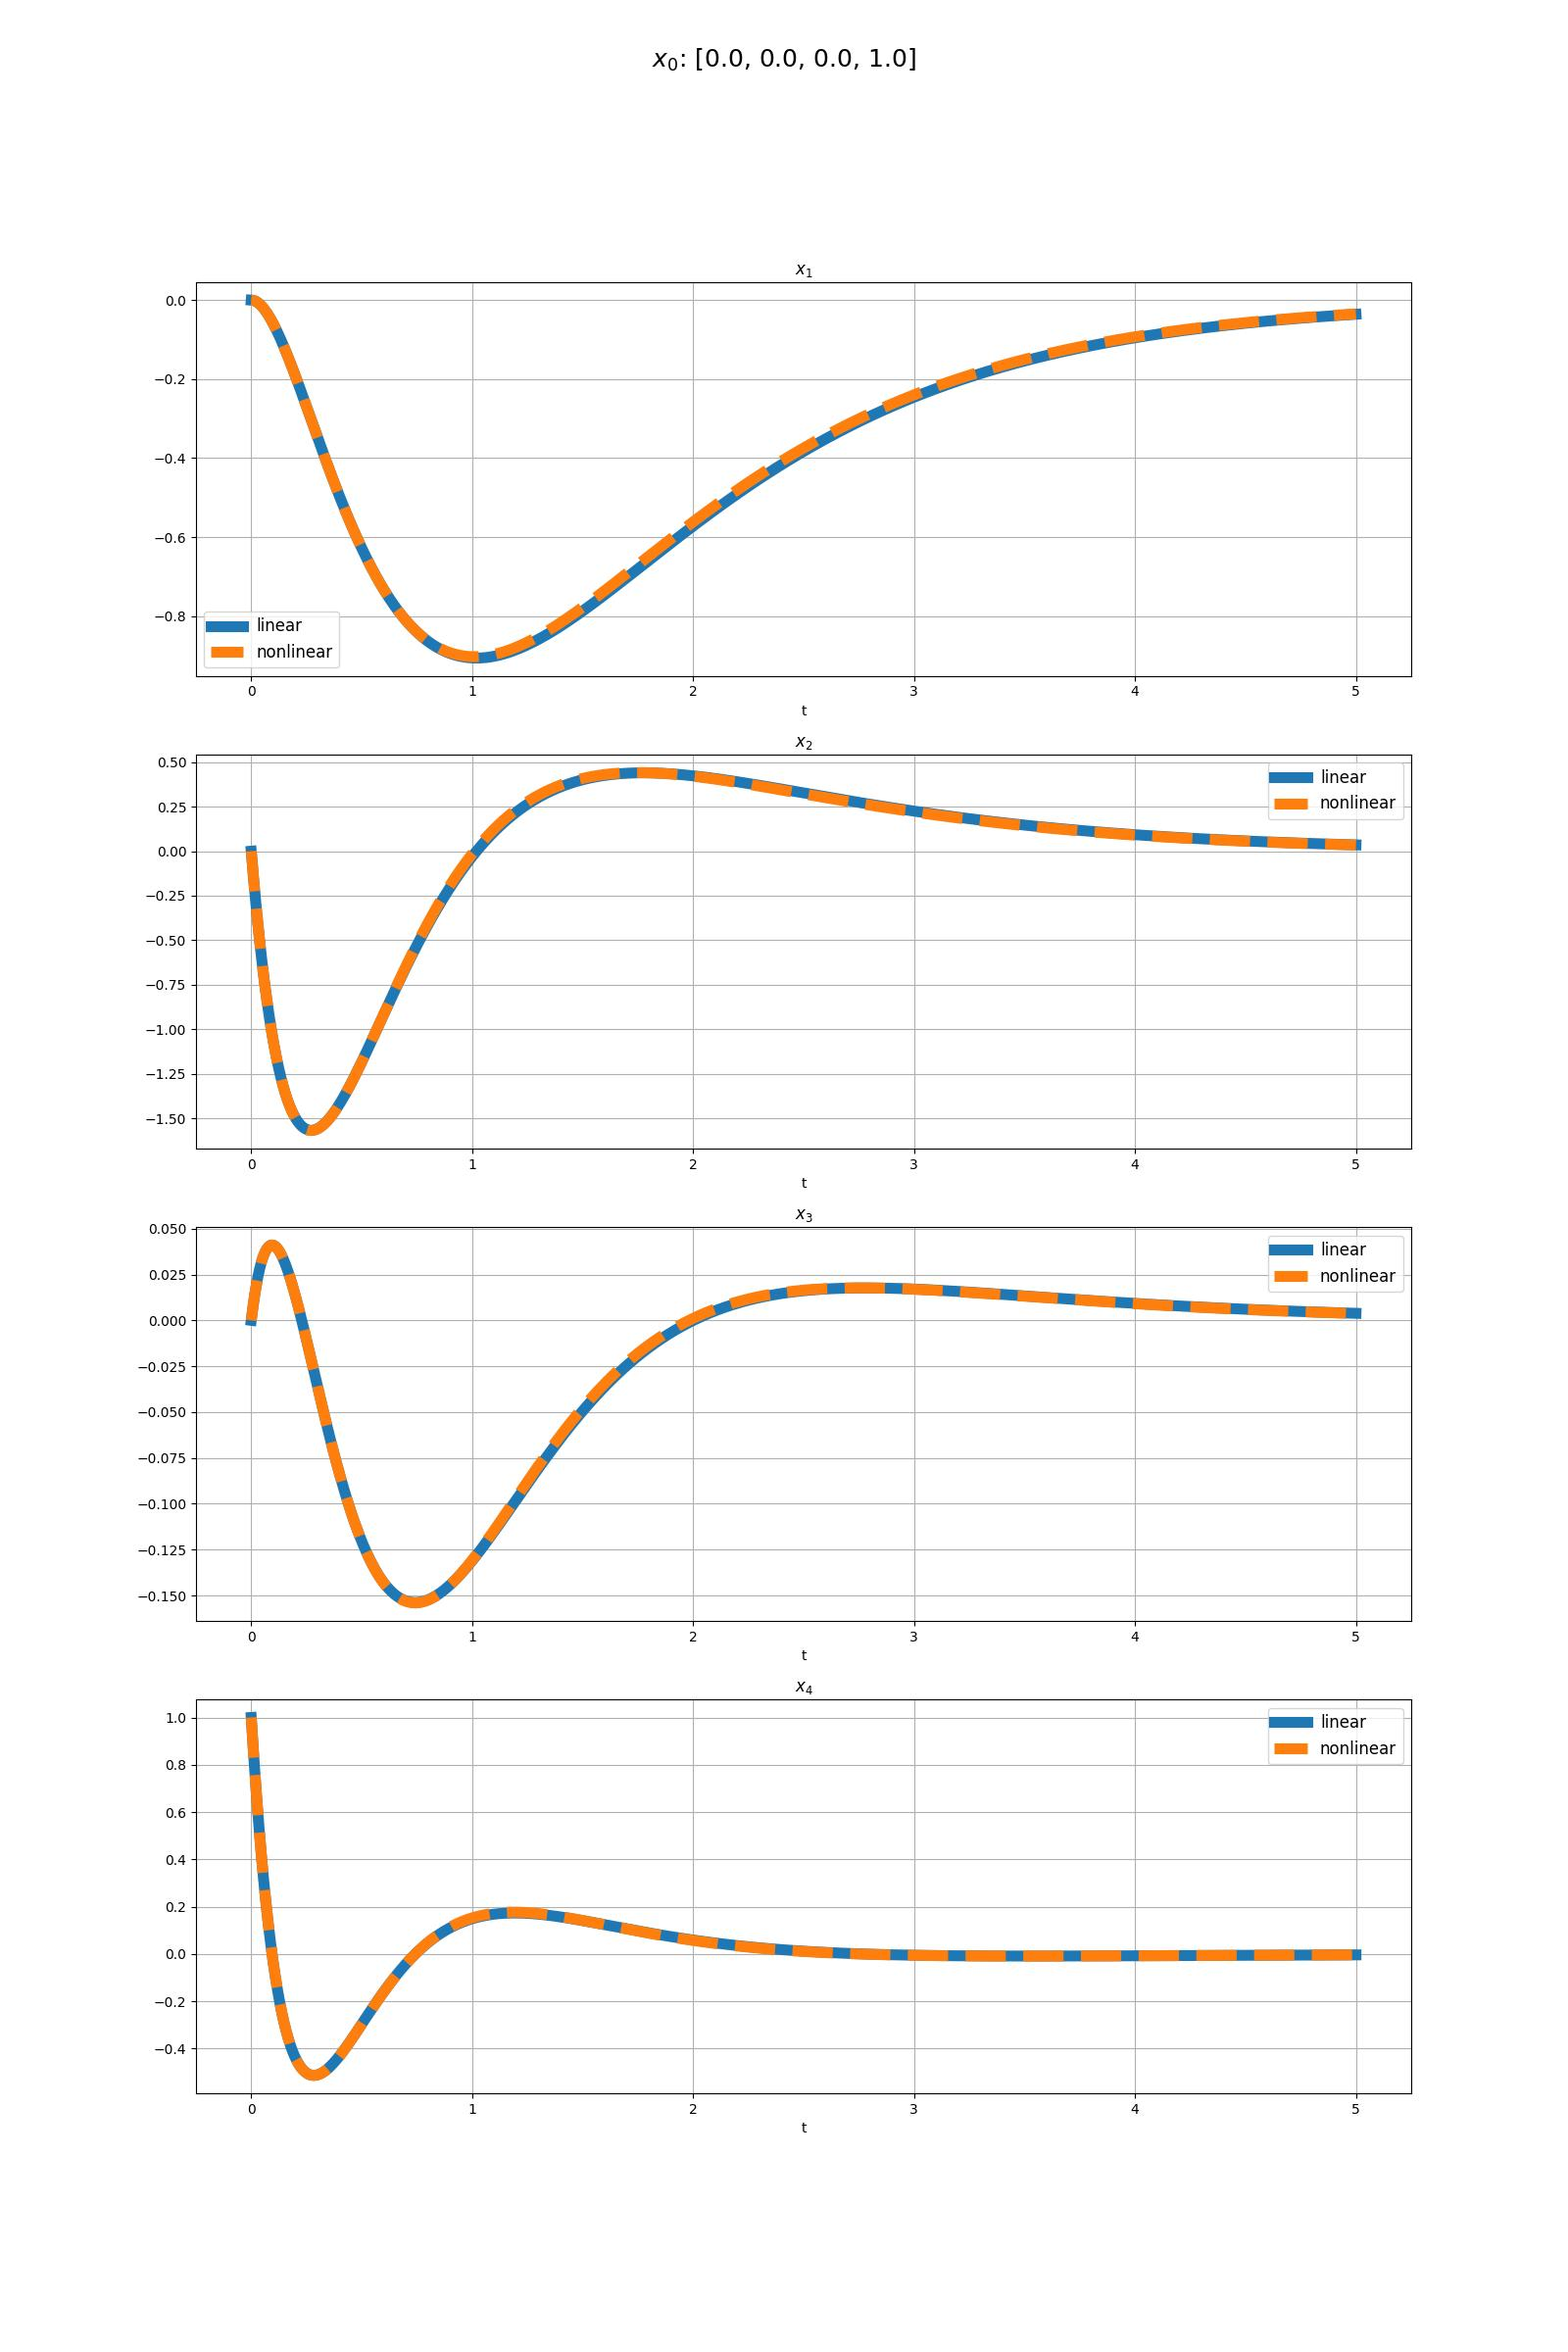
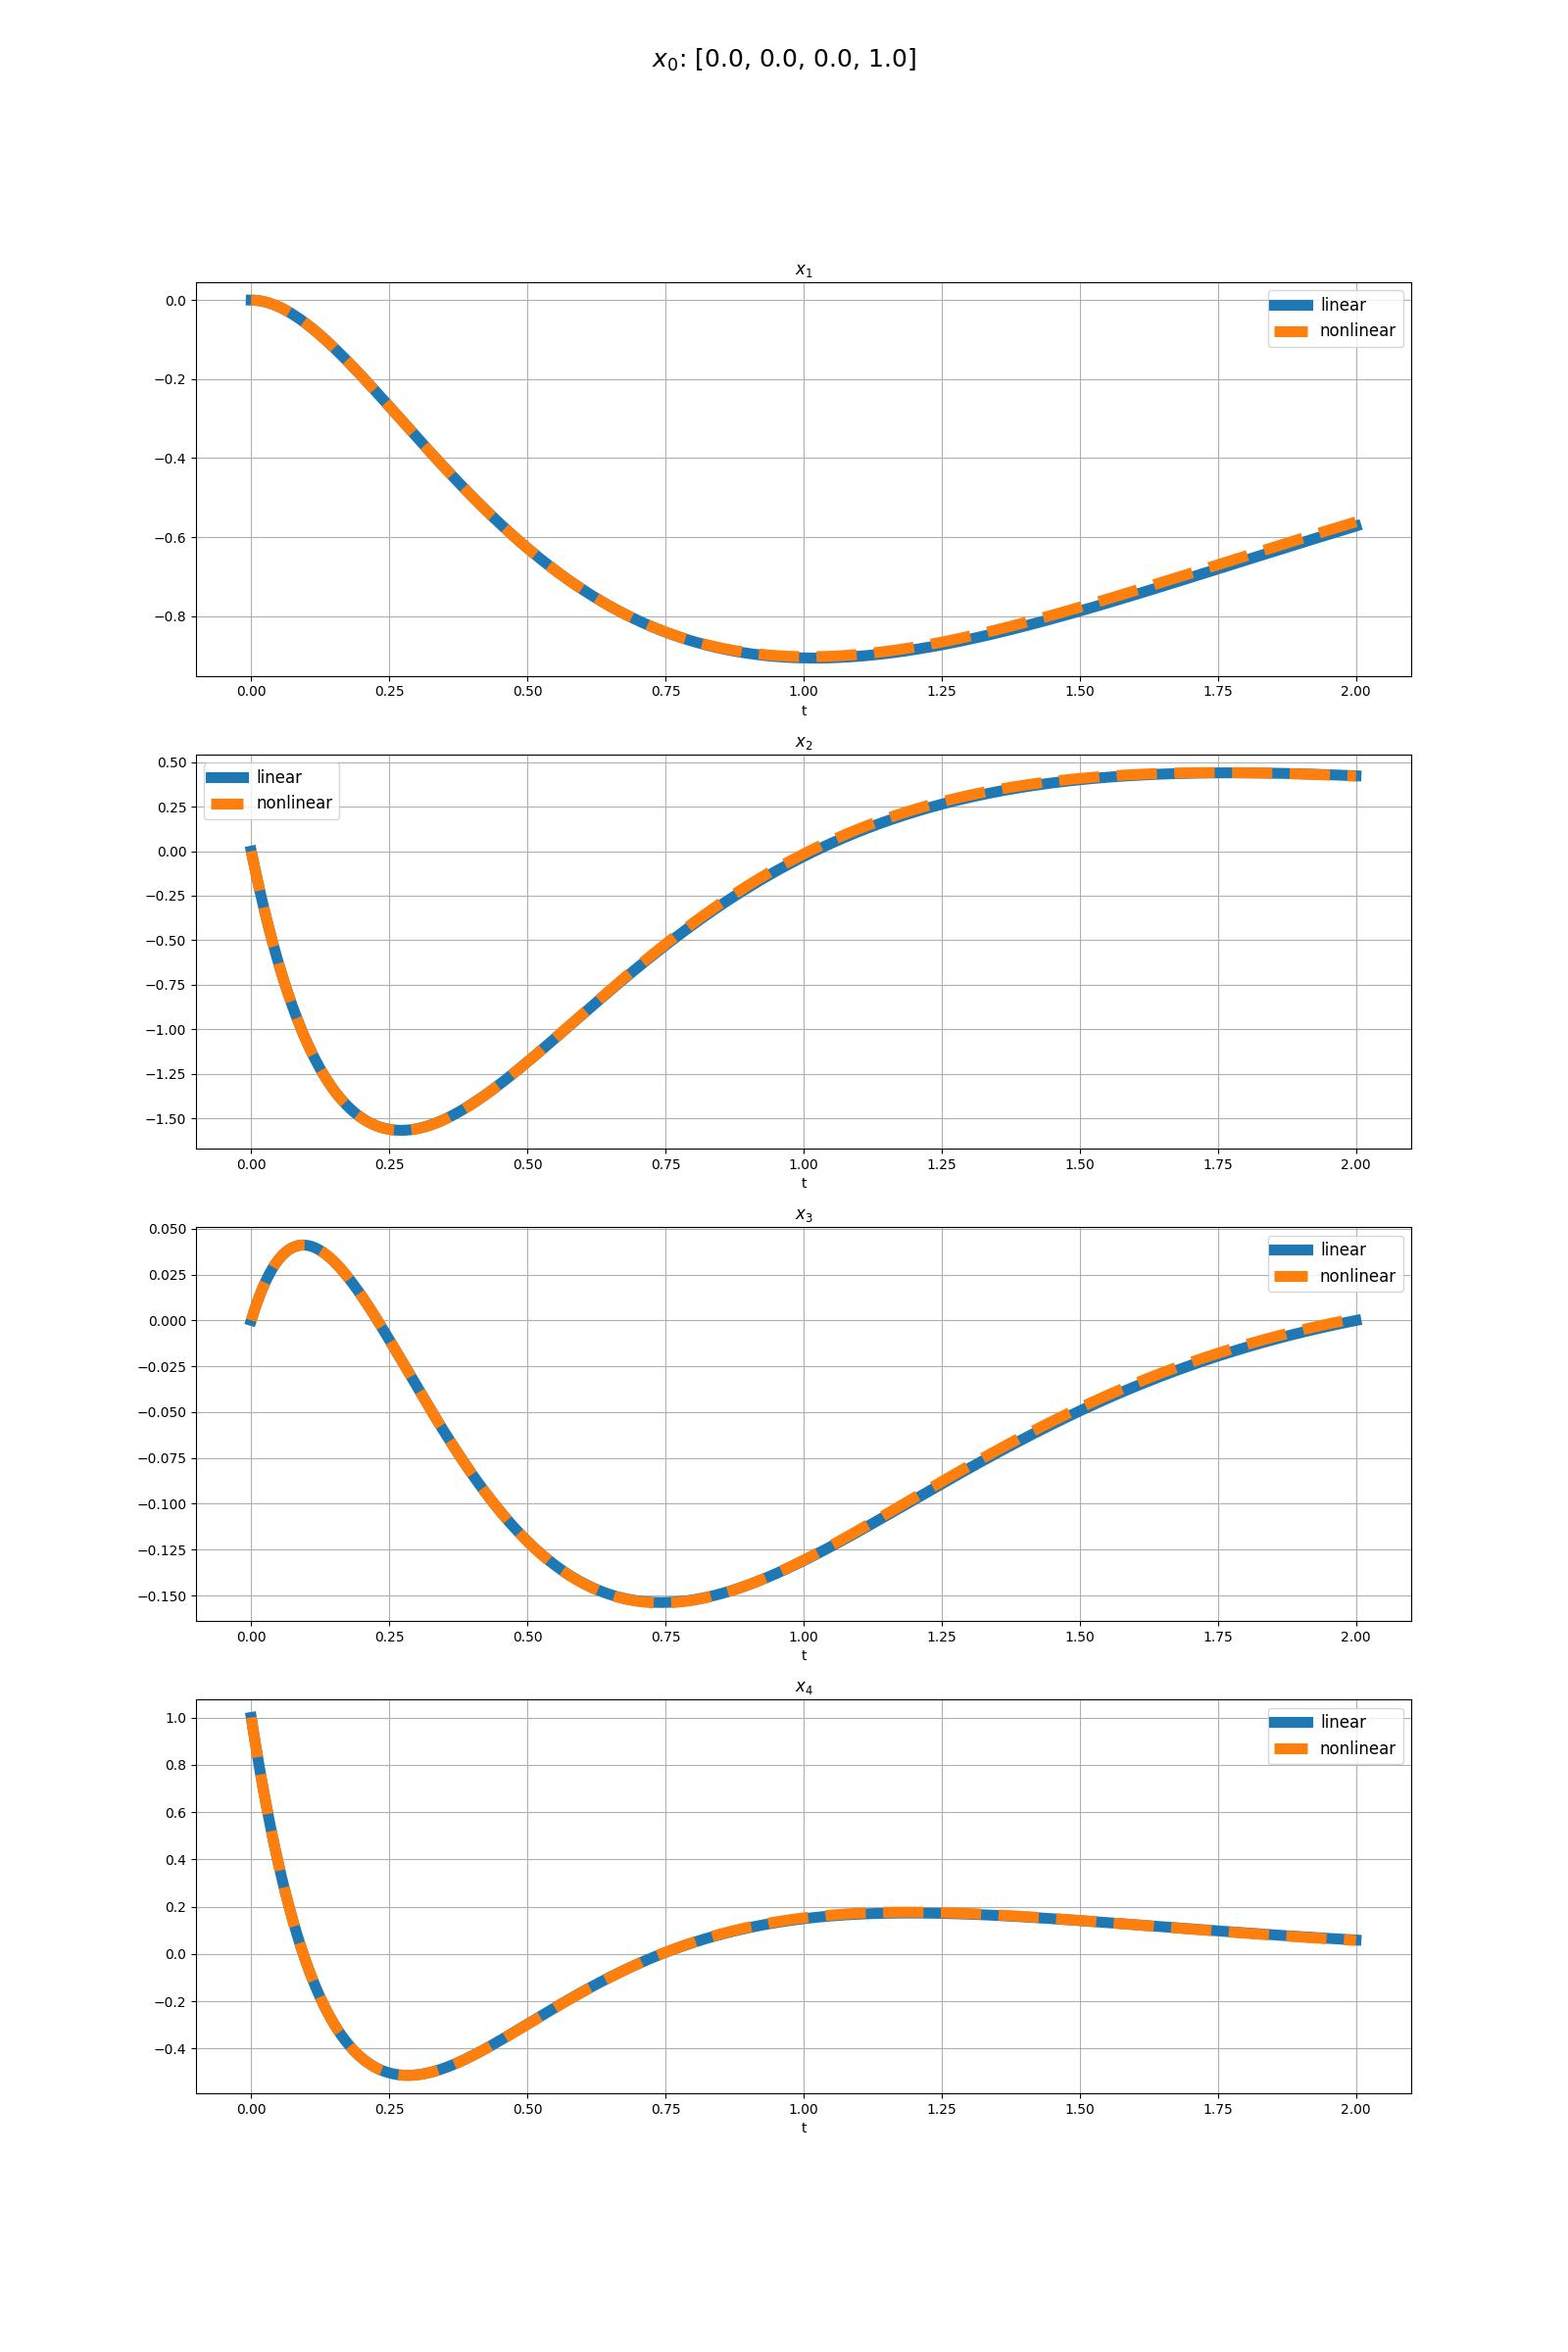
edit kurs

diff --git a/kurs/chapter3.py b/kurs/chapter3.py
@@ -51,6 +51,23 @@ def updfcn_modal(t, x, u, params):
     ])
 
 
+def draw_nonlin_response(ss_nonlin, x0, time, title="new"):
+    response_nonlin = control.input_output_response(ss_nonlin, T=time, X0=x0, U=np.zeros((2, len(time))))
+
+    fig, ax = plt.subplots(4, figsize=(16, 24))
+    fig.suptitle(f"$x_0$: {x0}", fontsize=18)
+
+    for i in range(4):
+        ax[i].set_title(f"$x_{i + 1}$")
+        ax[i].plot(time, response_nonlin.states[i], '--', label='nonlinear', linewidth=8)
+
+        ax[i].set_xlabel('t')
+        ax[i].grid()
+        ax[i].legend(fontsize=12)
+
+        plt.savefig(f'chapter3_reports/task2/task2_{title}.jpg')
+
+
 def draw_and_compare_nonlinear_response_modal(ss_lin, ss_nonlin, x0, time):
     resp_lin = control.initial_response(ss_lin, T=time, X0=x0)
     response_nonlin = control.input_output_response(ss_nonlin, T=time, X0=x0, U=np.zeros((2, len(time))))
@@ -71,7 +88,7 @@ def draw_and_compare_nonlinear_response_modal(ss_lin, ss_nonlin, x0, time):
 
 
 def task1(A, B, C, D):
-    time = set_time(5)
+    time = set_time(2)
 
     gamma = set_gamma([-1.0, -2.0, -3.0, -4.0])
     y = set_y(A, B)
@@ -86,7 +103,7 @@ def task1(A, B, C, D):
     x0_list = [
         [1.0, 0.0, 0.0, 0.0],
         [0.0, 1.0, 0.0, 0.0],
-        [0.0, 0.0, 1.0, 0.0],
+        [0.0, 0.0, 1.2, 0.0],
         [0.0, 0.0, 0.0, 1.0]
     ]
 
@@ -113,6 +130,12 @@ def task2(A, B, C, D):
             [1, -1, 0, 0],
             [0, 0, -2, -2],
             [0, 0, 2, -2]
+        ]),
+        np.array([
+            [-0.1, 0, 0, 0],
+            [0, -0.11, 0, 0],
+            [0, 0, -0.13, 0],
+            [0, 0, 0, -0.14]
         ])
     ]
 
@@ -125,6 +148,8 @@ def task2(A, B, C, D):
         ss_nonlin = control.NonlinearIOSystem(updfcn_modal, params={"K": k})
         ss_nonlin.set_inputs(2)
         response_nonlin = control.input_output_response(ss_nonlin, T=time, X0=x0, U=np.zeros((2, len(time))))
+        draw_nonlin_response(ss_nonlin, x0, time, str(np.linalg.eigvals(gamma)))
+
         print(f'gamma:\n {np.linalg.eigvals(gamma)} \n\n'
             f'max a:\n {round(np.abs(response_nonlin.states[0]).max(), 1)}\n'
             f'max phi:\n {round(np.abs(response_nonlin.states[3]).max(), 1)}\n'
@@ -335,10 +360,10 @@ if __name__ == "__main__":
     D = get_D()
 
     print_taks_1 = False
-    print_taks_2 = False
+    print_taks_2 = True
     print_taks_3 = False
     print_taks_4 = False
-    print_taks_5 = True
+    print_taks_5 = False
 
     if print_taks_1:
         task1(A, B, C, D)
